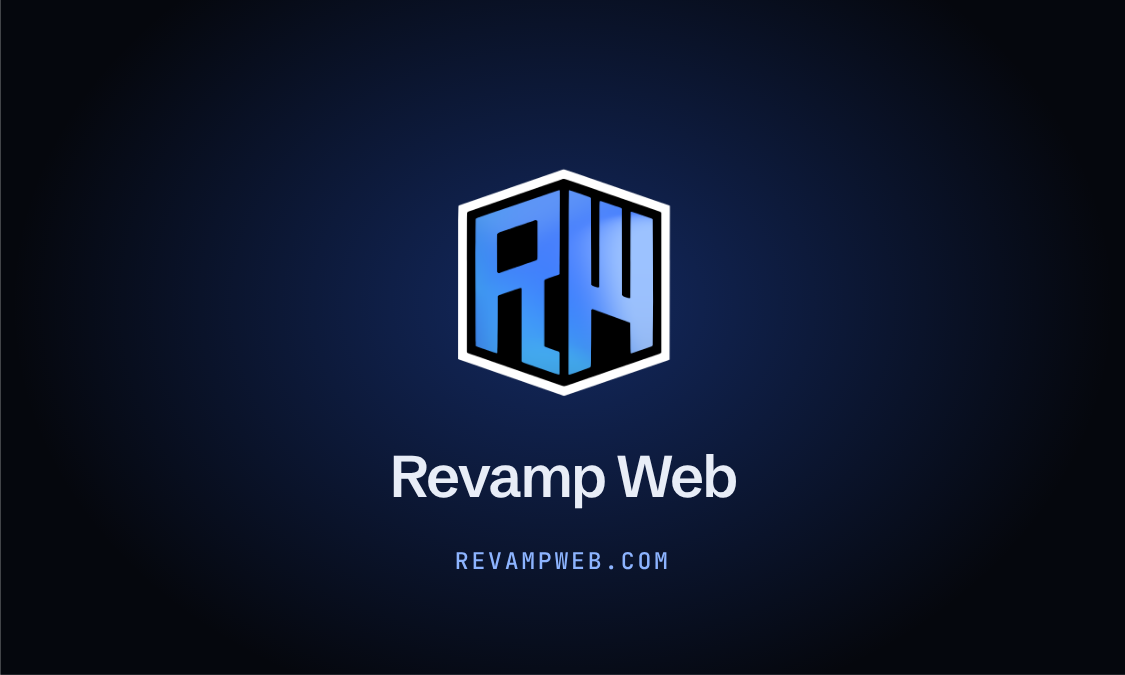
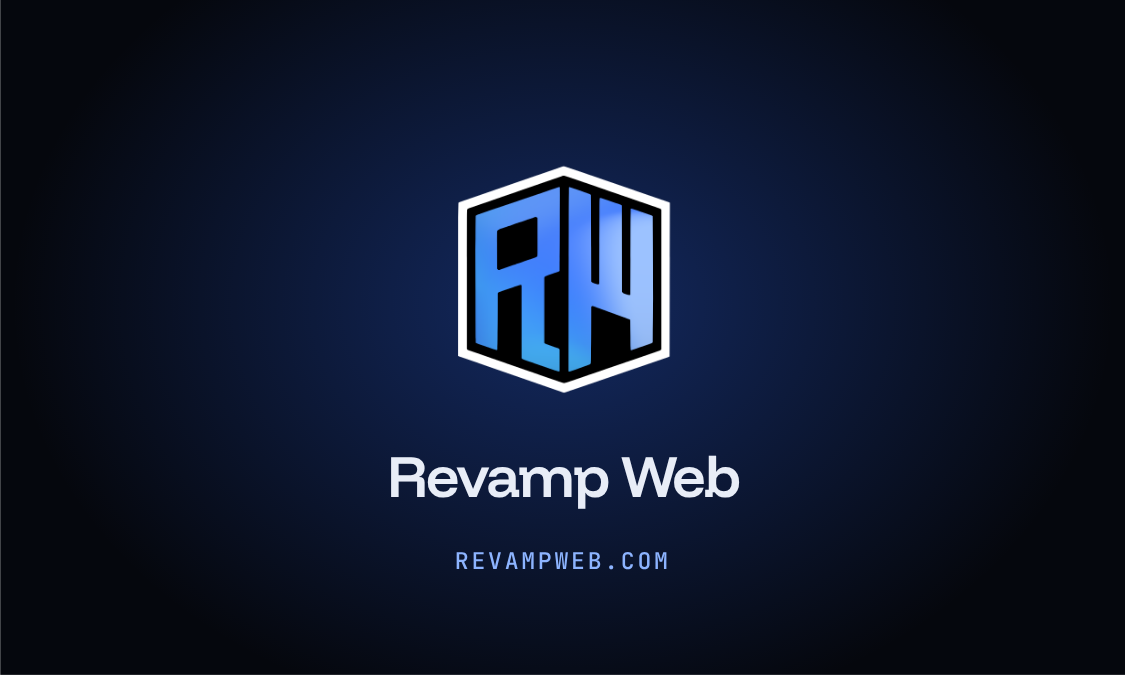
Footer art with animated light; Funnel Display for titles
- Footer uses Rob's RW sculpture image with a breathing glow, a light
  running up the seam, a floor sheen, scroll-in reveal and pointer drift
  (all off for reduced motion); fixed the footer overflowing at 1440px
- Titles and the header wordmark now use Funnel Display, whose squared
  letters echo the RW mark; card wordmarks updated and re-exported

Claude-Session: https://claude.ai/code/session_01HRgTfRLhHaq9Wk3RaUCYjV

diff --git a/assets/css/site.css b/assets/css/site.css
@@ -20,6 +20,7 @@
   --gradient-3: #5E94F7;
   --gradient-4: #47B5FF;
 
+  --font-title: "Funnel Display", "Schibsted Grotesk", "Helvetica Neue", Arial, sans-serif;
   --font-display: "Schibsted Grotesk", "Helvetica Neue", Arial, sans-serif;
   --font-body: "Figtree", "Segoe UI", system-ui, sans-serif;
   --font-mono: "JetBrains Mono", ui-monospace, "SFMono-Regular", Menlo, monospace;
@@ -45,7 +46,7 @@ body {
 img, svg { max-width: 100%; display: block; }
 a { color: var(--blue-text); text-decoration: none; }
 :focus-visible { outline: 2px solid var(--blue); outline-offset: 3px; border-radius: 4px; }
-h1, h2, h3, h4 { font-family: var(--font-display); font-weight: 600; line-height: 1.08; letter-spacing: -0.03em; margin: 0; text-wrap: balance; }
+h1, h2, h3, h4 { font-family: var(--font-title); font-weight: 600; line-height: 1.08; letter-spacing: -0.03em; margin: 0; text-wrap: balance; }
 p { margin: 0; text-wrap: pretty; }
 .sr-only { position: absolute; width: 1px; height: 1px; overflow: hidden; clip: rect(0 0 0 0); white-space: nowrap; }
 
@@ -101,7 +102,7 @@ body::before { content: ""; position: fixed; inset: 0 0 auto; height: env(safe-a
 .site-header { position: sticky; top: env(safe-area-inset-top, 0px); z-index: 50; transition: background .3s, box-shadow .3s; }
 .site-header.is-stuck { background: rgba(5, 7, 13, 0.78); backdrop-filter: saturate(1.3) blur(14px); -webkit-backdrop-filter: saturate(1.3) blur(14px); box-shadow: 0 1px 0 var(--line); }
 .nav { display: flex; align-items: center; gap: 28px; height: 68px; }
-.brand { white-space: nowrap; display: inline-flex; align-items: center; gap: 10px; color: var(--text); font-family: var(--font-display); font-weight: 700; font-size: 1.06rem; letter-spacing: -0.02em; }
+.brand { white-space: nowrap; display: inline-flex; align-items: center; gap: 10px; color: var(--text); font-family: var(--font-title); font-weight: 600; font-size: 1.06rem; letter-spacing: -0.02em; }
 .brand img { width: 30px; height: auto; }
 .nav-links { display: flex; gap: 4px; margin-left: 8px; }
 .nav-links a { color: var(--text); opacity: .82; font-weight: 500; padding: 6px 12px; border-radius: 6px; font-size: .95rem; transition: opacity .15s, background .15s; }
@@ -128,7 +129,7 @@ body::before { content: ""; position: fixed; inset: 0 0 auto; height: env(safe-a
 .hero .gband { top: -400px; height: 1120px; }
 .hero__grid { display: grid; grid-template-columns: minmax(0, 0.95fr) minmax(0, 1.05fr); gap: 56px; align-items: center; }
 .hero__copy { display: grid; gap: 24px; padding-top: 40px; min-width: 0; }
-.hero h1 { font-size: clamp(2.7rem, 1.6rem + 4vw, 5rem); letter-spacing: -0.045em; line-height: 0.98; font-weight: 600; }
+.hero h1 { font-size: clamp(2.7rem, 1.6rem + 4vw, 5rem); letter-spacing: -0.03em; line-height: 0.98; font-weight: 600; }
 .hero .sub { font-size: clamp(1.08rem, 1rem + .3vw, 1.22rem); color: #C9D2E4; max-width: 34em; }
 .hero__actions { display: flex; flex-wrap: wrap; gap: 20px; align-items: center; }
 .hero__fine { font-size: .9rem; color: var(--text-2); font-variant-numeric: tabular-nums; }
@@ -206,7 +207,7 @@ body::before { content: ""; position: fixed; inset: 0 0 auto; height: env(safe-a
 .section { padding-block: clamp(72px, 8vw, 112px); }
 .section + .section { border-top: 1px solid var(--line); }
 .kicker { font-family: var(--font-display); font-weight: 600; font-size: 1rem; color: var(--blue-text); letter-spacing: -0.01em; }
-.section h2 { font-size: clamp(2rem, 1.4rem + 2.2vw, 3.1rem); letter-spacing: -0.035em; }
+.section h2 { font-size: clamp(2rem, 1.4rem + 2.2vw, 3.1rem); letter-spacing: -0.025em; }
 .section .intro { display: grid; gap: 14px; max-width: 640px; margin-bottom: 56px; }
 .section .intro p { color: var(--text-2); font-size: 1.12rem; }
 .section .intro .kicker { color: var(--blue-text); font-size: 1rem; }
@@ -255,7 +256,7 @@ body::before { content: ""; position: fixed; inset: 0 0 auto; height: env(safe-a
 /* Inner page heads */
 .page-head { position: relative; isolation: isolate; padding-block: 64px 140px; overflow: hidden; }
 .page-head .gband { top: -520px; height: 860px; }
-.page-head h1 { font-size: clamp(2.5rem, 1.6rem + 3.4vw, 4.4rem); letter-spacing: -0.045em; max-width: 13em; line-height: 1; }
+.page-head h1 { font-size: clamp(2.5rem, 1.6rem + 3.4vw, 4.4rem); letter-spacing: -0.03em; max-width: 13em; line-height: 1; }
 .page-head p { margin-top: 20px; font-size: 1.15rem; max-width: 34em; color: #C9D2E4; }
 
 /* Case studies */
@@ -567,7 +568,7 @@ fieldset.field { border: 0; padding: 0; margin: 0; }
 .care-card--featured { box-shadow: inset 0 0 0 1px rgba(94,148,247,.55); }
 .care-card h3 { font-size: 1.2rem; display: flex; justify-content: space-between; align-items: baseline; gap: 10px; }
 .care-card h3 small { font: 500 .8rem var(--font-body); color: var(--blue-text); }
-.care-card .amt { font: 600 2.3rem var(--font-display); letter-spacing: -0.045em; line-height: 1; }
+.care-card .amt { font: 600 2.3rem var(--font-display); letter-spacing: -0.03em; line-height: 1; }
 .care-card .amt [data-billing-label] { font: 500 .88rem var(--font-body); color: var(--text-3); letter-spacing: 0; margin-left: 4px; }
 .care-card p { color: var(--text-2); font-size: .94rem; }
 .care-card ul { list-style: none; margin: 0; padding: 14px 0 0; border-top: 1px solid var(--line); display: grid; gap: 9px; font-size: .93rem; color: var(--text-2); }
@@ -579,7 +580,7 @@ fieldset.field { border: 0; padding: 0; margin: 0; }
 .closing { position: relative; padding-block: clamp(96px, 11vw, 150px); border-top: 1px solid var(--line); overflow: hidden; }
 .closing::before { content: ""; position: absolute; right: -10%; top: 50%; width: 900px; height: 900px; transform: translateY(-50%); background: radial-gradient(circle, rgba(47,107,255,.22), rgba(47,107,255,0) 62%); pointer-events: none; }
 .closing__grid { display: grid; grid-template-columns: minmax(0, 1.25fr) minmax(0, 1fr); gap: 48px; align-items: center; position: relative; }
-.closing h2 { font-size: clamp(2.3rem, 1.4rem + 3.4vw, 4.2rem); letter-spacing: -0.045em; max-width: 12em; }
+.closing h2 { font-size: clamp(2.3rem, 1.4rem + 3.4vw, 4.2rem); letter-spacing: -0.03em; max-width: 12em; }
 .closing p { margin-top: 18px; font-size: 1.15rem; max-width: 32em; color: #C9D2E4; }
 .closing .hero__actions { margin-top: 30px; }
 .mark { position: relative; width: min(100%, 400px); aspect-ratio: 240 / 263; justify-self: end; }
@@ -595,25 +596,64 @@ fieldset.field { border: 0; padding: 0; margin: 0; }
 @keyframes mark-float { 50% { transform: translateY(-10px) rotate(-1deg); } }
 @media (max-width: 860px) { .closing__grid { grid-template-columns: minmax(0, 1fr); } .mark { justify-self: start; width: min(70%, 280px); order: -1; } }
 
-/* ---------- Footer ---------- */
-.footer { position: relative; z-index: 1; background: var(--bg-sunk); border-top: 1px solid var(--line); overflow: hidden; color: var(--text-3); }
-.footer__top { display: grid; grid-template-columns: minmax(0, 1.5fr) repeat(3, minmax(0, 1fr)); gap: 36px; padding-block: 72px 56px; }
-.footer__brand { display: grid; gap: 16px; align-content: start; }
-.footer__brand p { color: var(--text-2); max-width: 26em; font-size: .97rem; }
+/* ---------- Footer ----------
+   Rob's RW sculpture as a stage. The image sits at its own aspect ratio so
+   the animated light layers line up with the glow in the artwork. */
+.footer { position: relative; z-index: 1; background: #02040A; color: var(--text-3); overflow: hidden; isolation: isolate; }
+@media (min-width: 900px) { .footer { min-height: max(560px, calc(100vw * 745 / 2000)); display: flex; flex-direction: column; } }
+.footer__stage { position: absolute; inset: 0; z-index: -1; pointer-events: none; }
+.footer__img { position: absolute; inset: -14px; width: calc(100% + 28px); height: calc(100% + 28px); max-width: none; object-fit: cover; object-position: right center;
+  transform: translate3d(var(--px, 0px), var(--py, 0px), 0); transition: transform .9s var(--ease); }
+/* soft blend into the page above, and extra dark under the copy */
+.footer__stage::after { content: ""; position: absolute; inset: 0; background:
+  linear-gradient(180deg, var(--bg) 0%, rgba(5,7,13,0) 22%),
+  linear-gradient(90deg, rgba(2,4,10,.55) 0%, rgba(2,4,10,.15) 45%, rgba(2,4,10,0) 60%),
+  linear-gradient(0deg, rgba(2,4,10,.85) 0%, rgba(2,4,10,0) 18%); }
+/* the light source inside the R, breathing */
+.footer__glow { position: absolute; left: 77.5%; top: 52%; width: 34%; aspect-ratio: 1; transform: translate(-50%, -50%); border-radius: 50%;
+  background: radial-gradient(circle, rgba(70, 140, 255, .55) 0%, rgba(40, 100, 255, .18) 35%, rgba(40, 100, 255, 0) 65%); mix-blend-mode: screen; opacity: .55; }
+/* a light running up the glowing seam on the right */
+.footer__seam { position: absolute; left: 88.1%; top: 0; bottom: 18%; width: 3px; transform: translateX(-50%); overflow: hidden; mix-blend-mode: screen; }
+.footer__seam::before { content: ""; position: absolute; left: 0; right: 0; height: 22%; top: 100%; background: linear-gradient(0deg, rgba(150,200,255,0), rgba(190,225,255,.95), rgba(150,200,255,0)); filter: blur(.5px); }
+/* sheen sliding across the wet floor */
+.footer__sheen { position: absolute; left: 0; right: 0; bottom: 0; height: 26%; overflow: hidden; mix-blend-mode: screen;
+  -webkit-mask-image: linear-gradient(0deg, #000 30%, transparent); mask-image: linear-gradient(0deg, #000 30%, transparent); }
+.footer__sheen::before { content: ""; position: absolute; top: 0; bottom: 0; width: 22%; left: -30%; transform: skewX(-24deg);
+  background: linear-gradient(90deg, rgba(94,148,247,0), rgba(120,170,255,.22), rgba(94,148,247,0)); }
+@media (prefers-reduced-motion: no-preference) {
+  .footer__glow { animation: footer-breathe 5s ease-in-out infinite; }
+  .footer__seam::before { animation: footer-seam 4.5s cubic-bezier(.5,0,.3,1) infinite 1s; }
+  .footer__sheen::before { animation: footer-sheen 8s ease-in-out infinite 2s; }
+  @supports (animation-timeline: view()) {
+    .footer__img { animation: footer-rise linear both; animation-timeline: view(); animation-range: entry 0% entry 90%; }
+  }
+}
+@keyframes footer-breathe { 50% { opacity: .95; transform: translate(-50%, -50%) scale(1.08); } }
+@keyframes footer-seam { 0% { top: 100%; } 60%, 100% { top: -25%; } }
+@keyframes footer-sheen { 0% { left: -30%; } 55%, 100% { left: 120%; } }
+@keyframes footer-rise { from { scale: 1.1; filter: brightness(.35) saturate(.6); } to { scale: 1; filter: none; } }
+
+.footer__top { display: grid; grid-template-columns: repeat(3, minmax(0, 1fr)); gap: 28px 32px; padding-block: clamp(80px, 9vw, 120px) 48px; max-width: 660px; margin-left: max(0px, calc((100% - var(--well) - 48px) / 2)); padding-left: max(24px, env(safe-area-inset-left, 0px)); padding-right: 24px; }
+.footer__brand { display: grid; gap: 14px; align-content: start; grid-column: 1 / -1; margin-bottom: 12px; }
+.footer__brand p { color: var(--text-2); max-width: 30em; font-size: .97rem; }
 .footer__people { display: flex; align-items: center; gap: 12px; font-size: .9rem; color: var(--text-2); }
-.footer__people .avatars img { width: 34px; height: 34px; border-color: var(--bg-sunk); }
+.footer__people .avatars img { width: 34px; height: 34px; border-color: #02040A; }
 .footer h4 { color: var(--text); font-size: .95rem; font-weight: 600; letter-spacing: -0.01em; margin-bottom: 14px; }
 .footer ul { list-style: none; padding: 0; margin: 0; display: grid; gap: 10px; }
 .footer a { color: var(--text-2); transition: color .15s; }
-.footer a:hover { color: var(--text); }
-/* Footer art: Rob is making an illustration for this spot. Drop it in as
-   assets/brand/footer-art.png and swap the wordmark below for an <img>. */
-.footer__art { position: relative; height: clamp(120px, 17vw, 230px); }
-.footer__word { position: absolute; left: 50%; bottom: -0.2em; transform: translateX(-50%); white-space: nowrap; font: 700 clamp(5rem, 17vw, 15.5rem)/1 var(--font-display); letter-spacing: -0.06em;
-  color: transparent; -webkit-text-stroke: 1px rgba(160, 180, 220, .2); user-select: none; }
-.footer__base { display: flex; justify-content: space-between; flex-wrap: wrap; gap: 12px; padding-block: 22px; border-top: 1px solid var(--line); font-size: .88rem; position: relative; z-index: 1; background: var(--bg-sunk); }
+.footer a:hover { color: #fff; }
+.footer__base { margin-top: auto; border-top: 1px solid rgba(160,180,220,.1); font-size: .88rem; padding-block: 22px; }
+.footer__base .wrap { display: flex; justify-content: space-between; flex-wrap: wrap; gap: 12px; }
 .footer__base a { color: var(--text-3); }
-@media (max-width: 860px) { .footer__top { grid-template-columns: 1fr 1fr; } .footer__brand { grid-column: 1 / -1; } }
+@media (max-width: 899px) {
+  .footer { padding-top: 260px; }
+  .footer__img { height: 300px; inset: 0 -14px auto -14px; object-position: 80% center; }
+  .footer__glow, .footer__seam, .footer__sheen { display: none; }
+  .footer__stage::after { background: linear-gradient(180deg, var(--bg) 0%, rgba(5,7,13,0) 25%, rgba(2,4,10,0) 60%, #02040A 300px); }
+  .footer__top { grid-template-columns: 1fr 1fr; margin-left: 0; max-width: none; padding-top: 24px; padding-left: max(18px, env(safe-area-inset-left, 0px)); padding-right: max(18px, env(safe-area-inset-right, 0px)); }
+  .footer__brand { grid-column: 1 / -1; }
+}
+
 .price-foot { display: flex; justify-content: space-between; flex-wrap: wrap; gap: 16px; align-items: center; margin-top: 20px; color: var(--text-2); }
 
 /* Header CTA reads on top of the gradient as well as on black */

diff --git a/business-cards/index.html b/business-cards/index.html
@@ -7,7 +7,7 @@
 <link rel="icon" href="../assets/brand/rw-logo.svg" type="image/svg+xml">
 <link rel="preconnect" href="https://fonts.googleapis.com">
 <link rel="preconnect" href="https://fonts.gstatic.com" crossorigin>
-<link rel="stylesheet" href="https://fonts.googleapis.com/css2?family=Archivo:wdth,wght@62..125,400..900&family=Figtree:wght@400;500;600&family=JetBrains+Mono:wght@400;500&family=Red+Hat+Mono:wght@400;500&family=Schibsted+Grotesk:wght@600;700;800&family=Unbounded:wght@700;900&display=swap">
+<link rel="stylesheet" href="https://fonts.googleapis.com/css2?family=Funnel+Display:wght@500;600;700&family=Archivo:wdth,wght@62..125,400..900&family=Figtree:wght@400;500;600&family=JetBrains+Mono:wght@400;500&family=Red+Hat+Mono:wght@400;500&family=Schibsted+Grotesk:wght@600;700;800&family=Unbounded:wght@700;900&display=swap">
 <style>
 /* Business card options. Cards are US standard 3.5 × 2 in.
    Every size inside a card is in cqw of the trim box, so the same markup
@@ -67,13 +67,13 @@ body.export .card { --bleed: 0.125in; width: 3.75in; aspect-ratio: auto; height:
 .signal-front .edge { position: absolute; top: var(--b); bottom: var(--b); left: 52.4cqw; width: 15.64cqw; clip-path: polygon(calc(100% - 1.5px) 0, 100% 0, 1.5px 100%, 0 100%); background: rgba(255,255,255,.75); }
 .signal-front .logo { position: absolute; left: 7cqw; top: 8cqw; width: 10cqw; }
 .signal-front .who { position: absolute; left: 7cqw; bottom: 8cqw; display: grid; gap: 1.8cqw; }
-.signal-front .c-name { font-family: "Schibsted Grotesk", sans-serif; font-size: 6.2cqw; font-weight: 600; letter-spacing: -0.035em; }
+.signal-front .c-name { font-family: "Funnel Display", "Schibsted Grotesk", sans-serif; font-size: 6.2cqw; font-weight: 600; letter-spacing: -0.035em; }
 .signal-front .c-role { font-size: 2.1cqw; color: #8DB4FF; }
 .signal-front .c-lines { font-size: 2.4cqw; color: #A7B1C6; margin-top: 2.4cqw; }
 .signal-back { background: radial-gradient(70% 90% at 50% 45%, rgba(47,107,255,.35), rgba(47,107,255,0) 70%), #05070D; color: #E8EDF7; }
 .signal-back .inner { position: absolute; inset: 0; display: grid; place-items: center; align-content: center; gap: 3.5cqw; }
 .signal-back img { width: 21cqw; }
-.signal-back .word { font: 600 5.6cqw "Schibsted Grotesk", sans-serif; letter-spacing: -0.035em; }
+.signal-back .word { font: 600 5.6cqw "Funnel Display", "Schibsted Grotesk", sans-serif; letter-spacing: -0.035em; }
 .signal-back .url { position: absolute; bottom: 6cqw; left: 0; right: 0; text-align: center; font: 500 2.2cqw "JetBrains Mono", monospace; letter-spacing: .12em; text-transform: uppercase; color: #8DB4FF; }
 
 /* ---------- 2. Midnight ---------- */
@@ -111,7 +111,7 @@ body.export .card { --bleed: 0.125in; width: 3.75in; aspect-ratio: auto; height:
 .hex-back { background: #fff; color: var(--ink); }
 .hex-back .stripe { position: absolute; left: var(--b); top: var(--b); bottom: var(--b); width: calc(4cqw + var(--bleed)); background: var(--blue); }
 .hex-back .who { position: absolute; left: 12cqw; top: 10cqw; display: grid; gap: 2cqw; }
-.hex-back .c-name { font: 800 6.4cqw "Schibsted Grotesk", sans-serif; letter-spacing: -0.03em; }
+.hex-back .c-name { font: 600 6.4cqw "Funnel Display", "Schibsted Grotesk", sans-serif; letter-spacing: -0.03em; }
 .hex-back .c-role { font-size: 2.2cqw; color: var(--blue-deep); }
 .hex-back .c-lines { position: absolute; left: 12cqw; bottom: 9cqw; font-size: 2.5cqw; color: #3A4459; }
 .hex-back .logo { position: absolute; right: 7cqw; bottom: 8cqw; width: 12cqw; }

diff --git a/site/contact.html b/site/contact.html
@@ -9,7 +9,7 @@
 <link rel="icon" href="../assets/brand/rw-logo.svg" type="image/svg+xml">
 <link rel="preconnect" href="https://fonts.googleapis.com">
 <link rel="preconnect" href="https://fonts.gstatic.com" crossorigin>
-<link rel="stylesheet" href="https://fonts.googleapis.com/css2?family=Figtree:wght@400;500;600&family=JetBrains+Mono:wght@500&family=Schibsted+Grotesk:wght@500;600;700;800&display=swap">
+<link rel="stylesheet" href="https://fonts.googleapis.com/css2?family=Figtree:wght@400;500;600&family=Funnel+Display:wght@500;600;700&family=JetBrains+Mono:wght@500&family=Schibsted+Grotesk:wght@500;600;700;800&display=swap">
 <link rel="stylesheet" href="../assets/css/site.css">
 </head>
 <body id="top">
@@ -120,7 +120,13 @@
 </main>
 
 <footer class="footer">
-  <div class="wrap footer__top">
+  <div class="footer__stage" aria-hidden="true">
+    <img class="footer__img" src="../assets/brand/footer-art.webp" srcset="../assets/brand/footer-art-1200.webp 1200w, ../assets/brand/footer-art.webp 2000w" sizes="100vw" alt="" loading="lazy" width="2000" height="745">
+    <div class="footer__glow"></div>
+    <div class="footer__seam"></div>
+    <div class="footer__sheen"></div>
+  </div>
+  <div class="footer__top">
     <div class="footer__brand">
       <a class="brand" href="index.html"><img src="../assets/brand/rw-logo.svg" alt="" width="30" height="33">Revamp Web</a>
       <p>Websites designed, built and hosted by Rob Wiscount and Dave Simmerman in South Jersey.</p>
@@ -128,11 +134,9 @@
     </div>
     <div><h4>Studio</h4><ul><li><a href="work.html">Work</a></li><li><a href="pricing.html">Pricing</a></li><li><a href="index.html#team">About us</a></li><li><a href="contact.html">Contact</a></li></ul></div>
     <div><h4>Services</h4><ul><li><a href="pricing.html#build">Website builds</a></li><li><a href="pricing.html#care">Hosting and care</a></li><li><a href="pricing.html#main-street">Main Street Program</a></li></ul></div>
-    <div><h4>Get in touch</h4><ul><li><a href="contact.html">hello@revampweb.com</a></li><li><a href="contact.html">Book a 30-minute call</a></li><li><a href="https://mileaday.run" target="_blank" rel="noopener">Our app, Mile A Day</a></li></ul></div>
+    <div><h4>Get in touch</h4><ul><li><a href="contact.html">hello@revampweb.com</a></li><li><a href="contact.html">Book a call</a></li><li><a href="https://mileaday.run" target="_blank" rel="noopener">Mile A Day</a></li></ul></div>
   </div>
-  <!-- Footer art: swap .footer__word for Rob's illustration (assets/brand/footer-art.png) when it's ready -->
-  <div class="footer__art" aria-hidden="true"><span class="footer__word">Revamp Web</span></div>
-  <div class="footer__base"><div class="wrap" style="display:flex;justify-content:space-between;flex-wrap:wrap;gap:12px"><span>© <span data-year>2026</span> Revamp Web</span><a href="#top">Back to top</a></div></div>
+  <div class="footer__base"><div class="wrap"><span>© <span data-year>2026</span> Revamp Web</span><a href="#top">Back to top</a></div></div>
 </footer>
 
 <script src="../assets/js/gradient.js"></script>

diff --git a/site/index.html b/site/index.html
@@ -9,7 +9,7 @@
 <link rel="icon" href="../assets/brand/rw-logo.svg" type="image/svg+xml">
 <link rel="preconnect" href="https://fonts.googleapis.com">
 <link rel="preconnect" href="https://fonts.gstatic.com" crossorigin>
-<link rel="stylesheet" href="https://fonts.googleapis.com/css2?family=Figtree:wght@400;500;600&family=JetBrains+Mono:wght@500&family=Schibsted+Grotesk:wght@500;600;700;800&display=swap">
+<link rel="stylesheet" href="https://fonts.googleapis.com/css2?family=Figtree:wght@400;500;600&family=Funnel+Display:wght@500;600;700&family=JetBrains+Mono:wght@500&family=Schibsted+Grotesk:wght@500;600;700;800&display=swap">
 <link rel="stylesheet" href="../assets/css/site.css">
 </head>
 <body id="top">
@@ -379,7 +379,13 @@
 </main>
 
 <footer class="footer">
-  <div class="wrap footer__top">
+  <div class="footer__stage" aria-hidden="true">
+    <img class="footer__img" src="../assets/brand/footer-art.webp" srcset="../assets/brand/footer-art-1200.webp 1200w, ../assets/brand/footer-art.webp 2000w" sizes="100vw" alt="" loading="lazy" width="2000" height="745">
+    <div class="footer__glow"></div>
+    <div class="footer__seam"></div>
+    <div class="footer__sheen"></div>
+  </div>
+  <div class="footer__top">
     <div class="footer__brand">
       <a class="brand" href="index.html"><img src="../assets/brand/rw-logo.svg" alt="" width="30" height="33">Revamp Web</a>
       <p>Websites designed, built and hosted by Rob Wiscount and Dave Simmerman in South Jersey.</p>
@@ -387,11 +393,9 @@
     </div>
     <div><h4>Studio</h4><ul><li><a href="work.html">Work</a></li><li><a href="pricing.html">Pricing</a></li><li><a href="index.html#team">About us</a></li><li><a href="contact.html">Contact</a></li></ul></div>
     <div><h4>Services</h4><ul><li><a href="pricing.html#build">Website builds</a></li><li><a href="pricing.html#care">Hosting and care</a></li><li><a href="pricing.html#main-street">Main Street Program</a></li></ul></div>
-    <div><h4>Get in touch</h4><ul><li><a href="contact.html">hello@revampweb.com</a></li><li><a href="contact.html">Book a 30-minute call</a></li><li><a href="https://mileaday.run" target="_blank" rel="noopener">Our app, Mile A Day</a></li></ul></div>
+    <div><h4>Get in touch</h4><ul><li><a href="contact.html">hello@revampweb.com</a></li><li><a href="contact.html">Book a call</a></li><li><a href="https://mileaday.run" target="_blank" rel="noopener">Mile A Day</a></li></ul></div>
   </div>
-  <!-- Footer art: swap .footer__word for Rob's illustration (assets/brand/footer-art.png) when it's ready -->
-  <div class="footer__art" aria-hidden="true"><span class="footer__word">Revamp Web</span></div>
-  <div class="footer__base"><div class="wrap" style="display:flex;justify-content:space-between;flex-wrap:wrap;gap:12px"><span>© <span data-year>2026</span> Revamp Web</span><a href="#top">Back to top</a></div></div>
+  <div class="footer__base"><div class="wrap"><span>© <span data-year>2026</span> Revamp Web</span><a href="#top">Back to top</a></div></div>
 </footer>
 
 <script src="../assets/js/gradient.js"></script>

diff --git a/site/pricing.html b/site/pricing.html
@@ -9,7 +9,7 @@
 <link rel="icon" href="../assets/brand/rw-logo.svg" type="image/svg+xml">
 <link rel="preconnect" href="https://fonts.googleapis.com">
 <link rel="preconnect" href="https://fonts.gstatic.com" crossorigin>
-<link rel="stylesheet" href="https://fonts.googleapis.com/css2?family=Figtree:wght@400;500;600&family=JetBrains+Mono:wght@500&family=Schibsted+Grotesk:wght@500;600;700;800&display=swap">
+<link rel="stylesheet" href="https://fonts.googleapis.com/css2?family=Figtree:wght@400;500;600&family=Funnel+Display:wght@500;600;700&family=JetBrains+Mono:wght@500&family=Schibsted+Grotesk:wght@500;600;700;800&display=swap">
 <link rel="stylesheet" href="../assets/css/site.css">
 </head>
 <body id="top">
@@ -216,7 +216,13 @@
 </main>
 
 <footer class="footer">
-  <div class="wrap footer__top">
+  <div class="footer__stage" aria-hidden="true">
+    <img class="footer__img" src="../assets/brand/footer-art.webp" srcset="../assets/brand/footer-art-1200.webp 1200w, ../assets/brand/footer-art.webp 2000w" sizes="100vw" alt="" loading="lazy" width="2000" height="745">
+    <div class="footer__glow"></div>
+    <div class="footer__seam"></div>
+    <div class="footer__sheen"></div>
+  </div>
+  <div class="footer__top">
     <div class="footer__brand">
       <a class="brand" href="index.html"><img src="../assets/brand/rw-logo.svg" alt="" width="30" height="33">Revamp Web</a>
       <p>Websites designed, built and hosted by Rob Wiscount and Dave Simmerman in South Jersey.</p>
@@ -224,11 +230,9 @@
     </div>
     <div><h4>Studio</h4><ul><li><a href="work.html">Work</a></li><li><a href="pricing.html">Pricing</a></li><li><a href="index.html#team">About us</a></li><li><a href="contact.html">Contact</a></li></ul></div>
     <div><h4>Services</h4><ul><li><a href="pricing.html#build">Website builds</a></li><li><a href="pricing.html#care">Hosting and care</a></li><li><a href="pricing.html#main-street">Main Street Program</a></li></ul></div>
-    <div><h4>Get in touch</h4><ul><li><a href="contact.html">hello@revampweb.com</a></li><li><a href="contact.html">Book a 30-minute call</a></li><li><a href="https://mileaday.run" target="_blank" rel="noopener">Our app, Mile A Day</a></li></ul></div>
+    <div><h4>Get in touch</h4><ul><li><a href="contact.html">hello@revampweb.com</a></li><li><a href="contact.html">Book a call</a></li><li><a href="https://mileaday.run" target="_blank" rel="noopener">Mile A Day</a></li></ul></div>
   </div>
-  <!-- Footer art: swap .footer__word for Rob's illustration (assets/brand/footer-art.png) when it's ready -->
-  <div class="footer__art" aria-hidden="true"><span class="footer__word">Revamp Web</span></div>
-  <div class="footer__base"><div class="wrap" style="display:flex;justify-content:space-between;flex-wrap:wrap;gap:12px"><span>© <span data-year>2026</span> Revamp Web</span><a href="#top">Back to top</a></div></div>
+  <div class="footer__base"><div class="wrap"><span>© <span data-year>2026</span> Revamp Web</span><a href="#top">Back to top</a></div></div>
 </footer>
 
 <script src="../assets/js/gradient.js"></script>

diff --git a/site/work.html b/site/work.html
@@ -9,7 +9,7 @@
 <link rel="icon" href="../assets/brand/rw-logo.svg" type="image/svg+xml">
 <link rel="preconnect" href="https://fonts.googleapis.com">
 <link rel="preconnect" href="https://fonts.gstatic.com" crossorigin>
-<link rel="stylesheet" href="https://fonts.googleapis.com/css2?family=Figtree:wght@400;500;600&family=JetBrains+Mono:wght@500&family=Schibsted+Grotesk:wght@500;600;700;800&display=swap">
+<link rel="stylesheet" href="https://fonts.googleapis.com/css2?family=Figtree:wght@400;500;600&family=Funnel+Display:wght@500;600;700&family=JetBrains+Mono:wght@500&family=Schibsted+Grotesk:wght@500;600;700;800&display=swap">
 <link rel="stylesheet" href="../assets/css/site.css">
 </head>
 <body id="top">
@@ -159,7 +159,13 @@
 </main>
 
 <footer class="footer">
-  <div class="wrap footer__top">
+  <div class="footer__stage" aria-hidden="true">
+    <img class="footer__img" src="../assets/brand/footer-art.webp" srcset="../assets/brand/footer-art-1200.webp 1200w, ../assets/brand/footer-art.webp 2000w" sizes="100vw" alt="" loading="lazy" width="2000" height="745">
+    <div class="footer__glow"></div>
+    <div class="footer__seam"></div>
+    <div class="footer__sheen"></div>
+  </div>
+  <div class="footer__top">
     <div class="footer__brand">
       <a class="brand" href="index.html"><img src="../assets/brand/rw-logo.svg" alt="" width="30" height="33">Revamp Web</a>
       <p>Websites designed, built and hosted by Rob Wiscount and Dave Simmerman in South Jersey.</p>
@@ -167,11 +173,9 @@
     </div>
     <div><h4>Studio</h4><ul><li><a href="work.html">Work</a></li><li><a href="pricing.html">Pricing</a></li><li><a href="index.html#team">About us</a></li><li><a href="contact.html">Contact</a></li></ul></div>
     <div><h4>Services</h4><ul><li><a href="pricing.html#build">Website builds</a></li><li><a href="pricing.html#care">Hosting and care</a></li><li><a href="pricing.html#main-street">Main Street Program</a></li></ul></div>
-    <div><h4>Get in touch</h4><ul><li><a href="contact.html">hello@revampweb.com</a></li><li><a href="contact.html">Book a 30-minute call</a></li><li><a href="https://mileaday.run" target="_blank" rel="noopener">Our app, Mile A Day</a></li></ul></div>
+    <div><h4>Get in touch</h4><ul><li><a href="contact.html">hello@revampweb.com</a></li><li><a href="contact.html">Book a call</a></li><li><a href="https://mileaday.run" target="_blank" rel="noopener">Mile A Day</a></li></ul></div>
   </div>
-  <!-- Footer art: swap .footer__word for Rob's illustration (assets/brand/footer-art.png) when it's ready -->
-  <div class="footer__art" aria-hidden="true"><span class="footer__word">Revamp Web</span></div>
-  <div class="footer__base"><div class="wrap" style="display:flex;justify-content:space-between;flex-wrap:wrap;gap:12px"><span>© <span data-year>2026</span> Revamp Web</span><a href="#top">Back to top</a></div></div>
+  <div class="footer__base"><div class="wrap"><span>© <span data-year>2026</span> Revamp Web</span><a href="#top">Back to top</a></div></div>
 </footer>
 
 <script src="../assets/js/gradient.js"></script>

diff --git a/index.html b/index.html
@@ -8,7 +8,7 @@
 <link rel="icon" href="assets/brand/rw-logo.svg" type="image/svg+xml">
 <link rel="preconnect" href="https://fonts.googleapis.com">
 <link rel="preconnect" href="https://fonts.gstatic.com" crossorigin>
-<link rel="stylesheet" href="https://fonts.googleapis.com/css2?family=Figtree:wght@400;500;600;700&family=JetBrains+Mono:wght@500&family=Schibsted+Grotesk:wght@700;800&display=swap">
+<link rel="stylesheet" href="https://fonts.googleapis.com/css2?family=Figtree:wght@400;500;600;700&family=JetBrains+Mono:wght@500&family=Funnel+Display:wght@500;600;700&display=swap">
 <style>
 /* Concept board for Rob and Dave. Single dark look on purpose: the logo's black.
    Layout: one reading column, concept cards in a 3-up grid, reference tables below. */
@@ -19,7 +19,7 @@
   --text: #EDF1FA;
   --dim: #8E98AE;
   --blue: #5E94F7;
-  --display: "Schibsted Grotesk", "Helvetica Neue", Arial, sans-serif;
+  --display: "Funnel Display", "Helvetica Neue", Arial, sans-serif;
   --body: "Figtree", system-ui, sans-serif;
   --mono: "JetBrains Mono", ui-monospace, Menlo, monospace;
   color-scheme: dark;

diff --git a/assets/js/site.js b/assets/js/site.js
@@ -155,5 +155,18 @@
     gaugeTiles.forEach((t) => io.observe(t));
   }
 
+
+  /* Footer art drifts a little with the pointer */
+  const footer = document.querySelector(".footer");
+  if (footer && !reduceMotion && window.matchMedia("(hover: hover)").matches) {
+    footer.addEventListener("pointermove", (e) => {
+      const r = footer.getBoundingClientRect();
+      const x = (e.clientX - r.left) / r.width - 0.5, y = (e.clientY - r.top) / r.height - 0.5;
+      footer.style.setProperty("--px", (-x * 14).toFixed(1) + "px");
+      footer.style.setProperty("--py", (-y * 10).toFixed(1) + "px");
+    });
+    footer.addEventListener("pointerleave", () => { footer.style.setProperty("--px", "0px"); footer.style.setProperty("--py", "0px"); });
+  }
+
   document.querySelectorAll("[data-year]").forEach((el) => (el.textContent = new Date().getFullYear()));
 })();
